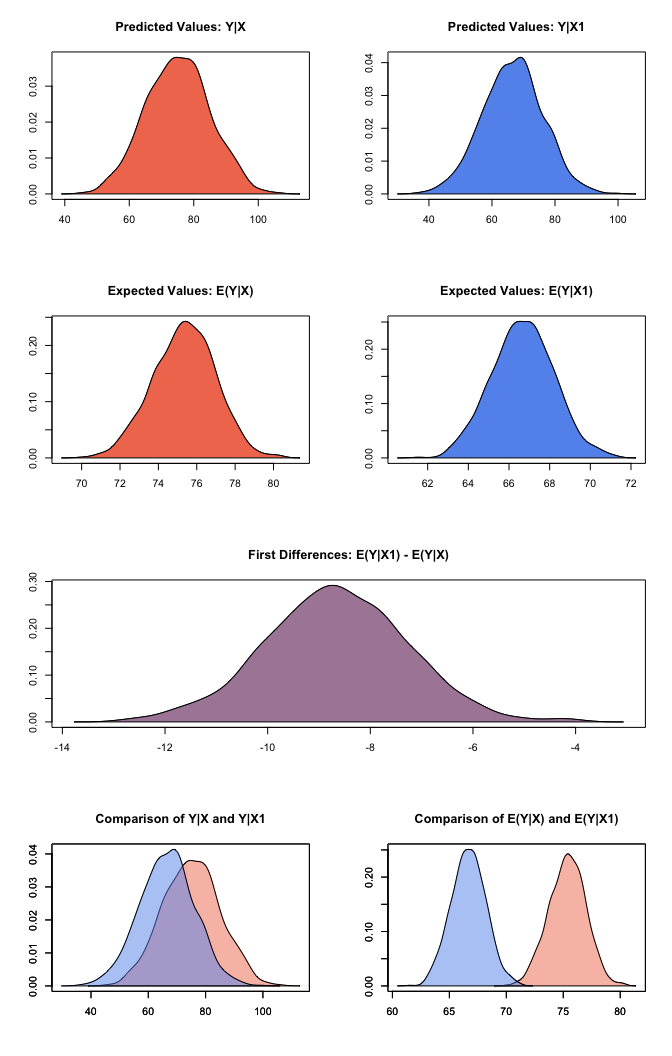
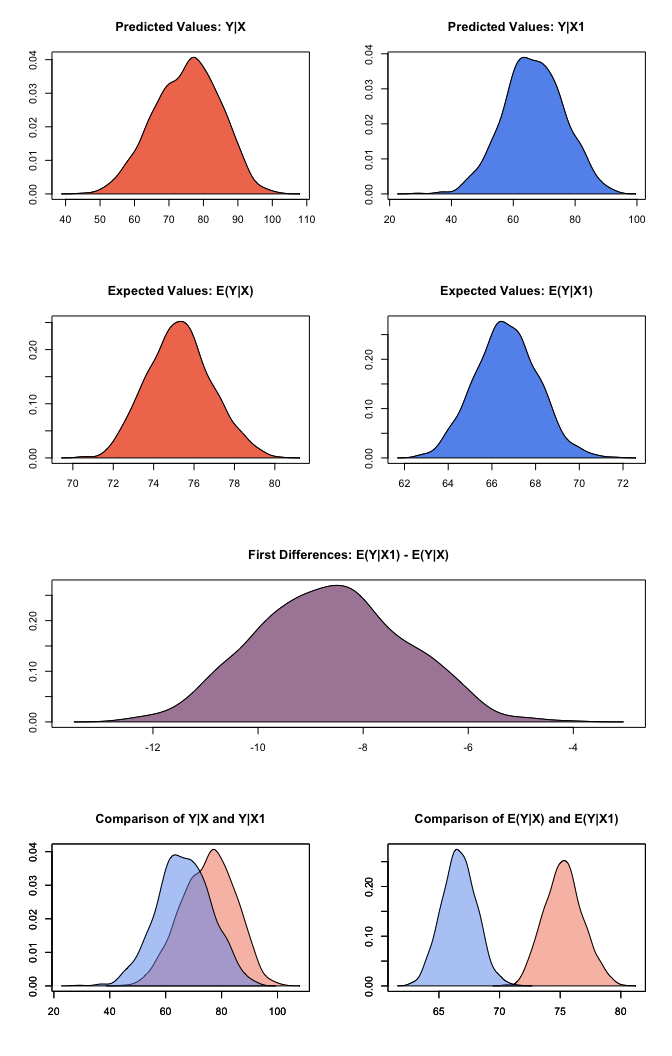
readme install instructions added

diff --git a/README.md b/README.md
@@ -15,6 +15,7 @@ Status](https://ci.appveyor.com/api/projects/status/github/IQSS/Zelig?branch=mas
 [![codecov](https://codecov.io/gh/IQSS/Zelig/branch/master/graph/badge.svg)](https://codecov.io/gh/IQSS/Zelig)
 [![Pull requests waiting for
 review](https://badge.waffle.io/iqss/zelig.svg?label=development)](https://waffle.io/iqss/zelig)
+[Dev-Blog](https://medium.com/zelig-dev)
 
 Zelig is an easy-to-use, free, open source, general purpose statistics
 program for estimating, interpreting, and presenting results from any
@@ -39,8 +40,8 @@ problems by completely rewriting into R’s Reference Classes for a fully
 object-oriented architecture. Comparability wrappers are available so
 that you can still use pre-Zelig 5 syntax.
 
-Quick Start Zelig 5
--------------------
+Zelig 5 workflow overview
+-------------------------
 
 All models in Zelig 5 can be estimated and results explored presented
 using a five simple steps:
@@ -57,7 +58,20 @@ using a five simple steps:
 
 -   `graph` to plot the simulation results.
 
-Let’s load the package and walk through an example. The swiss dataset
+### Differences from Zelig 4 and backwards compatability
+
+Zelig 5 uses [reference classes](http://adv-r.had.co.nz/R5.html) which
+work a bit differently from what you may expect in R. The big difference
+is that they are "mutable", i.e. assigning values to them does not
+overwrite the objects previous contents.
+
+Zelig 5 does contain wrappers (largely) allowing you to use Zelig 4
+syntax if you'ld like.
+
+Zelig 5 Quickstart Guide
+------------------------
+
+Let’s walk through an example. This example uses the swiss dataset. It
 contains data on fertility and socioeconomic factors in Switzerland’s 47
 French-speaking provinces in 1888 (Mosteller and Tukey, 1977, 549-551).
 We will model the effect of education on fertility, where education is
@@ -65,10 +79,18 @@ measured as the percent of draftees with education beyond primary school
 and fertility is measured using the common standardized fertility
 measure (see Muehlenbein (2010, 80-81) for details).
 
-Loading Zelig
--------------
+Installing and Loading Zelig
+----------------------------
 
-First, open your R console and load Zelig:
+If you haven't already done so, open your R console and install Zelig:
+
+    install.packages('Zelig')
+
+Alternatively you can install the development version with:
+
+    devtools::install_github('IQSS/Zelig')
+
+Once Zelig is installed, load it:
 
     library(Zelig)
 
@@ -82,8 +104,8 @@ appropriate model choice. We first create a Zelig least squares object:
     # initialize Zelig5 least squares object
     z5 <- zls$new()
 
-To estimate our model, we call the zelig() method, which is a function
-that is internal to the Zelig object. We pass the zelig() method two
+To estimate our model, we call the `zelig()` method, which is a function
+that is internal to the Zelig object. We pass the `zelig()` method two
 arguments: equation and data:
 
     # estimate ls model
@@ -155,23 +177,23 @@ After setting our predictor value, we simulate using the `sim()` method:
     ##  sim x :
     ##  -----
     ## ev
-    ##       mean       sd     50%    2.5%   97.5%
-    ## 1 75.34669 1.623717 75.3778 72.0946 78.3423
+    ##     mean       sd      50%     2.5%    97.5%
+    ## 1 75.291 1.575095 75.25233 72.38984 78.44461
     ## pv
     ##          mean       sd      50%     2.5%    97.5%
-    ## [1,] 75.06701 9.872719 74.97049 55.38795 94.03839
+    ## [1,] 75.24904 9.419252 75.91061 56.76001 91.95659
     ## 
     ##  sim x1 :
     ##  -----
     ## ev
-    ##       mean       sd      50%    2.5%    97.5%
-    ## 1 66.68021 1.520516 66.66157 63.7506 69.69706
+    ##       mean       sd      50%     2.5%    97.5%
+    ## 1 66.66368 1.416404 66.63681 63.99208 69.45811
     ## pv
-    ##          mean       sd      50%    2.5%   97.5%
-    ## [1,] 66.56147 9.525085 66.82548 47.6388 85.4093
+    ##          mean       sd      50%     2.5%    97.5%
+    ## [1,] 66.60779 9.694003 66.48146 47.26967 85.07781
     ## fd
-    ##        mean       sd       50%     2.5%     97.5%
-    ## 1 -8.666479 1.396604 -8.661257 -11.4146 -5.917406
+    ##       mean       sd       50%      2.5%     97.5%
+    ## 1 -8.62732 1.415942 -8.630518 -11.22842 -5.979453
 
 At this point, we’ve estimated a model, set the predictor value, and
 estimated easily interpretable quantities of interest. The `summary()`
@@ -207,3 +229,5 @@ Then use the `graph()` method as before:
     z5$graph()
 
 ![](README_files/figure-markdown_strict/example_plot_ci_plot-1.png)
+
+Note: implemented in version 5.0-14.
